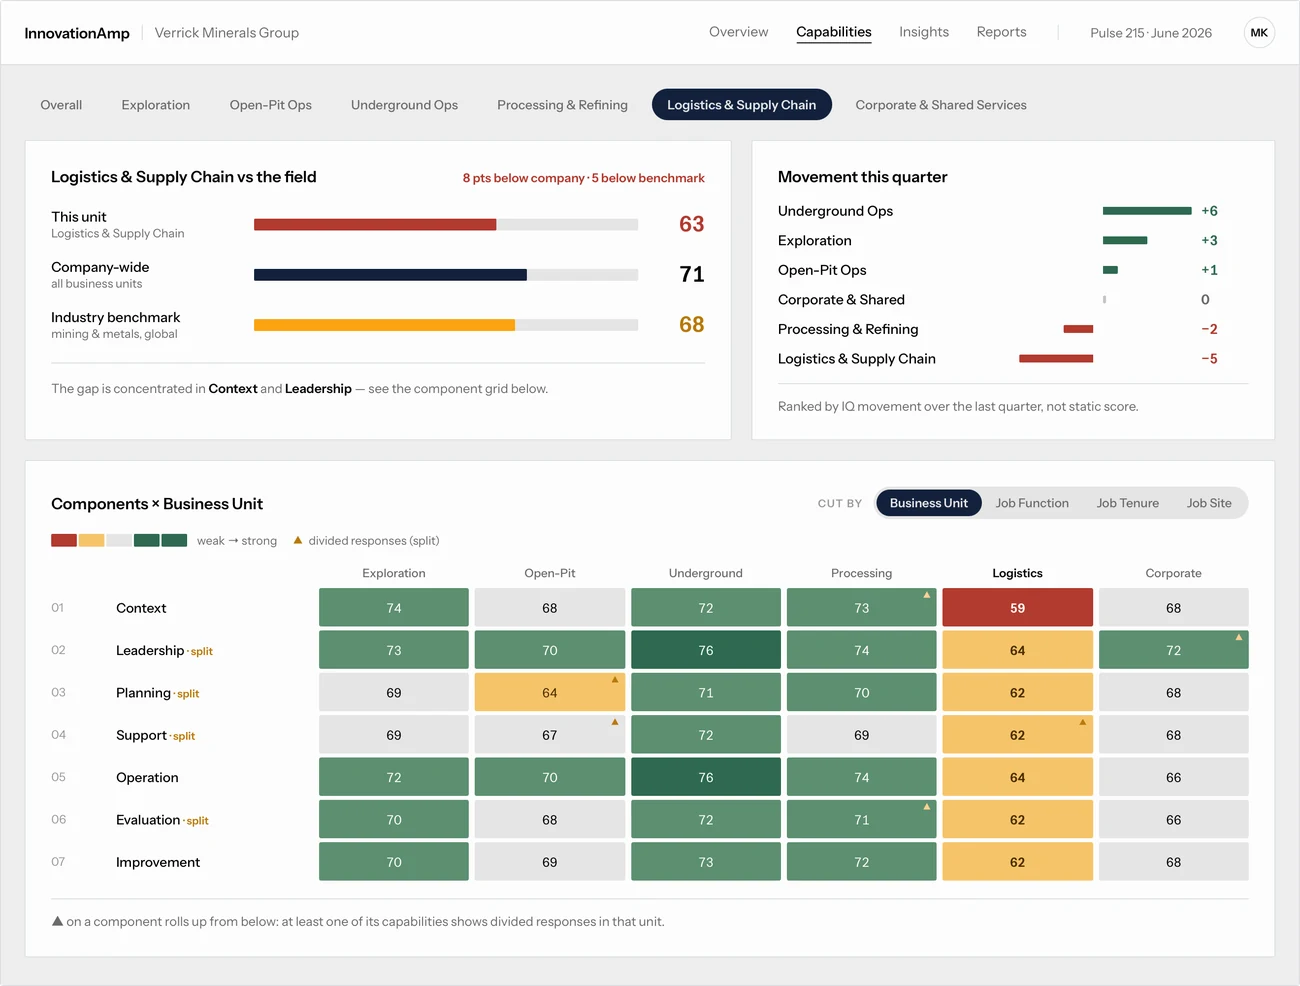
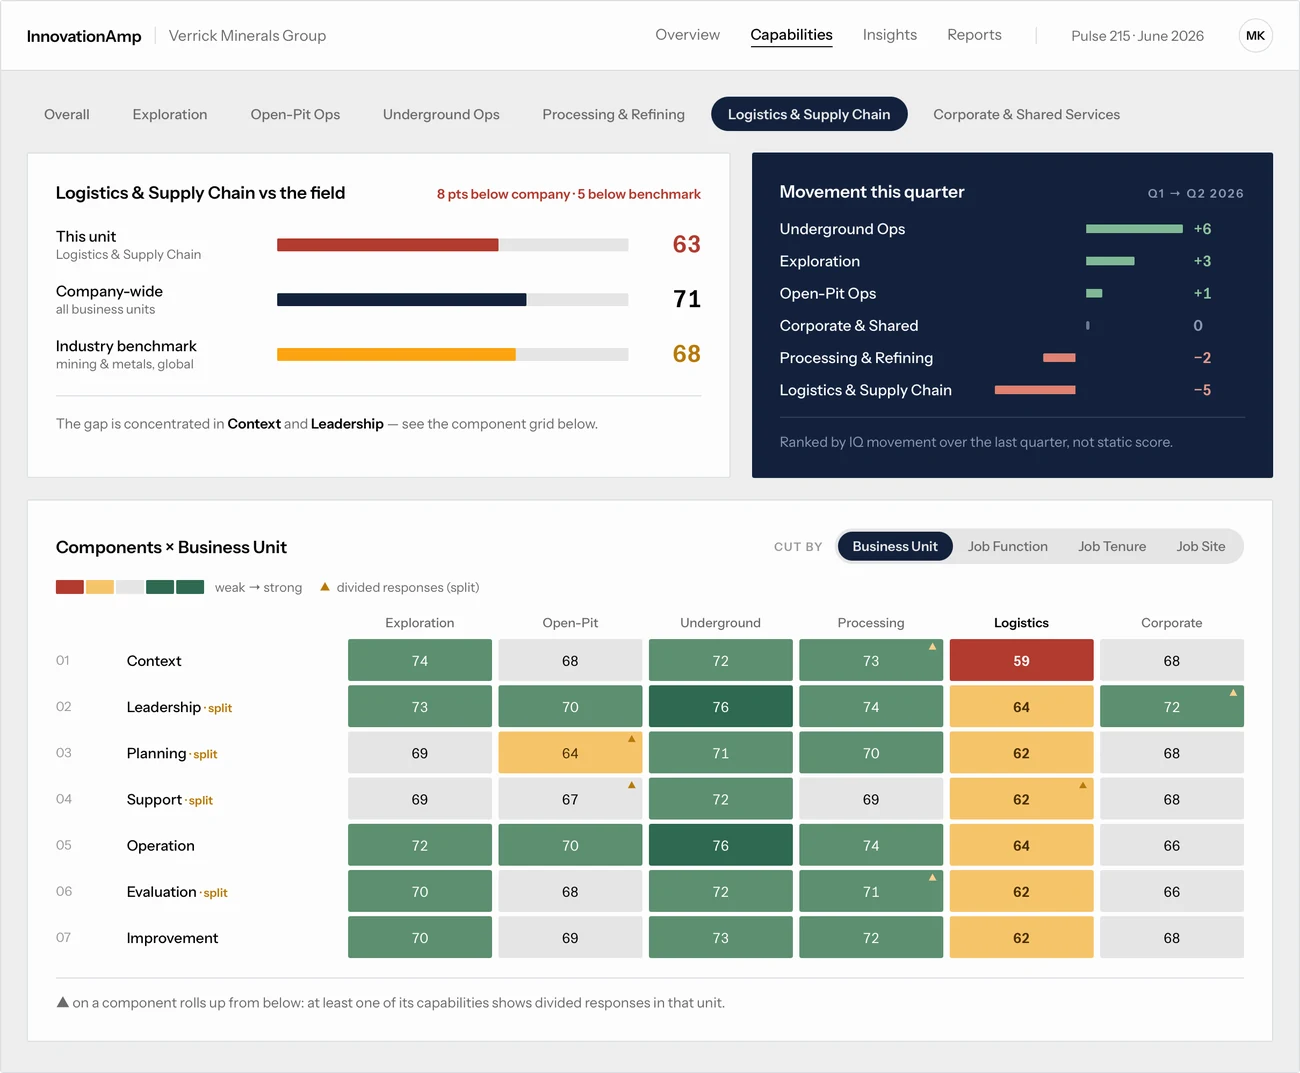
Update Capabilities screenshots in the Drill-down tab
New Business Unit and Job Function cut views replace the previous
versions; updated the width/height attributes to match their slightly
different aspect ratios so they don't get stretched.

diff --git a/index.html b/index.html
@@ -134,10 +134,10 @@
         <div class="tab-panel is-active" data-panel="drill">
           <div class="showcase-media">
             <div class="shot-frame shot-frame-large">
-              <img src="assets/images/capabilities-grid.webp" alt="Logistics and Supply Chain against the company average and industry benchmark, quarterly movement by unit, and the components by business unit grid" loading="lazy" width="1300" height="986">
+              <img src="assets/images/capabilities-grid.webp" alt="Logistics and Supply Chain against the company average and industry benchmark, quarterly movement by unit, and the components by business unit grid" loading="lazy" width="1300" height="1073">
             </div>
             <div class="shot-frame-overlap">
-              <img src="assets/images/capabilities-splits.webp" alt="Components cut by job function, with the widest-divide chart comparing HQ and corporate against front-line operations" loading="lazy" width="800" height="608">
+              <img src="assets/images/capabilities-splits.webp" alt="Components cut by job function, with the widest-divide chart comparing HQ and corporate against front-line operations" loading="lazy" width="800" height="664">
             </div>
           </div>
           <p class="shot-caption">A single unit against the company and the benchmark, with the full components grid — and the same components cut by job function, where HQ and the front line diverge.</p>
